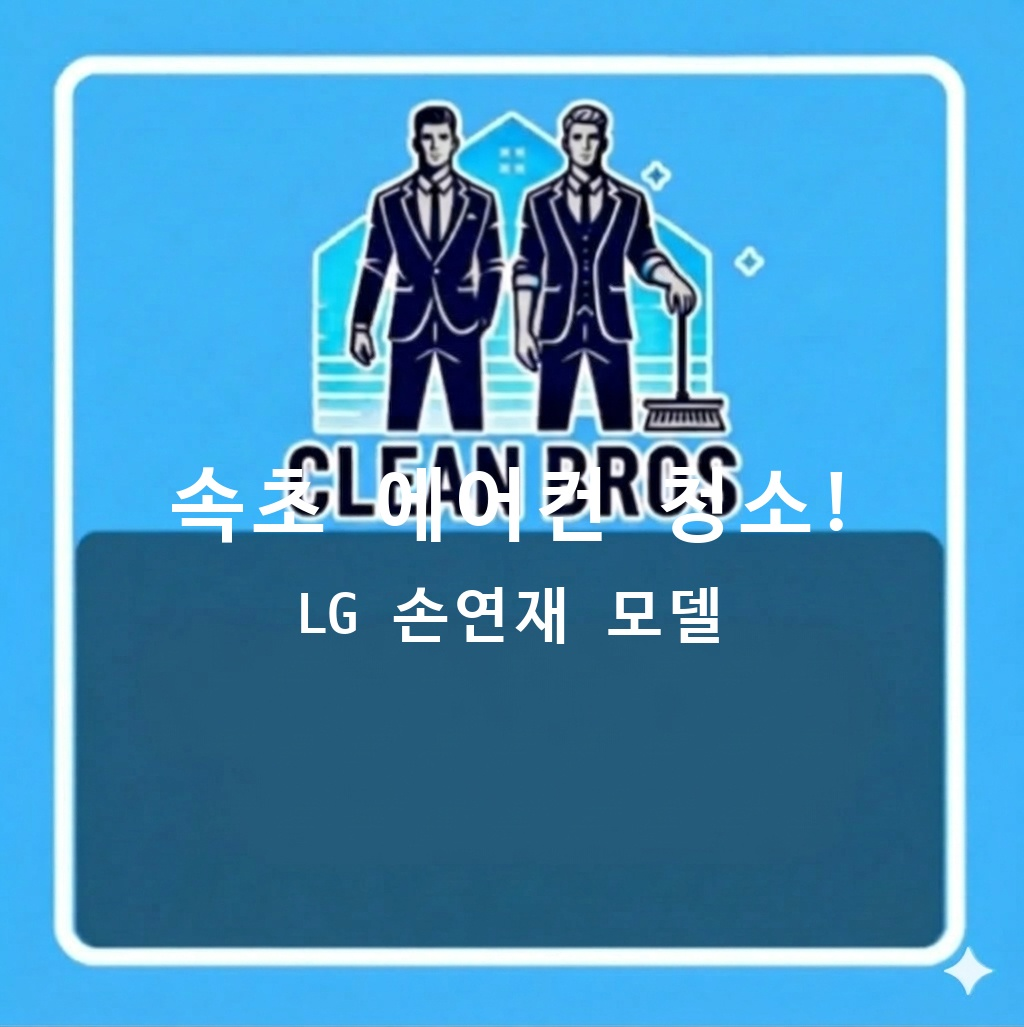
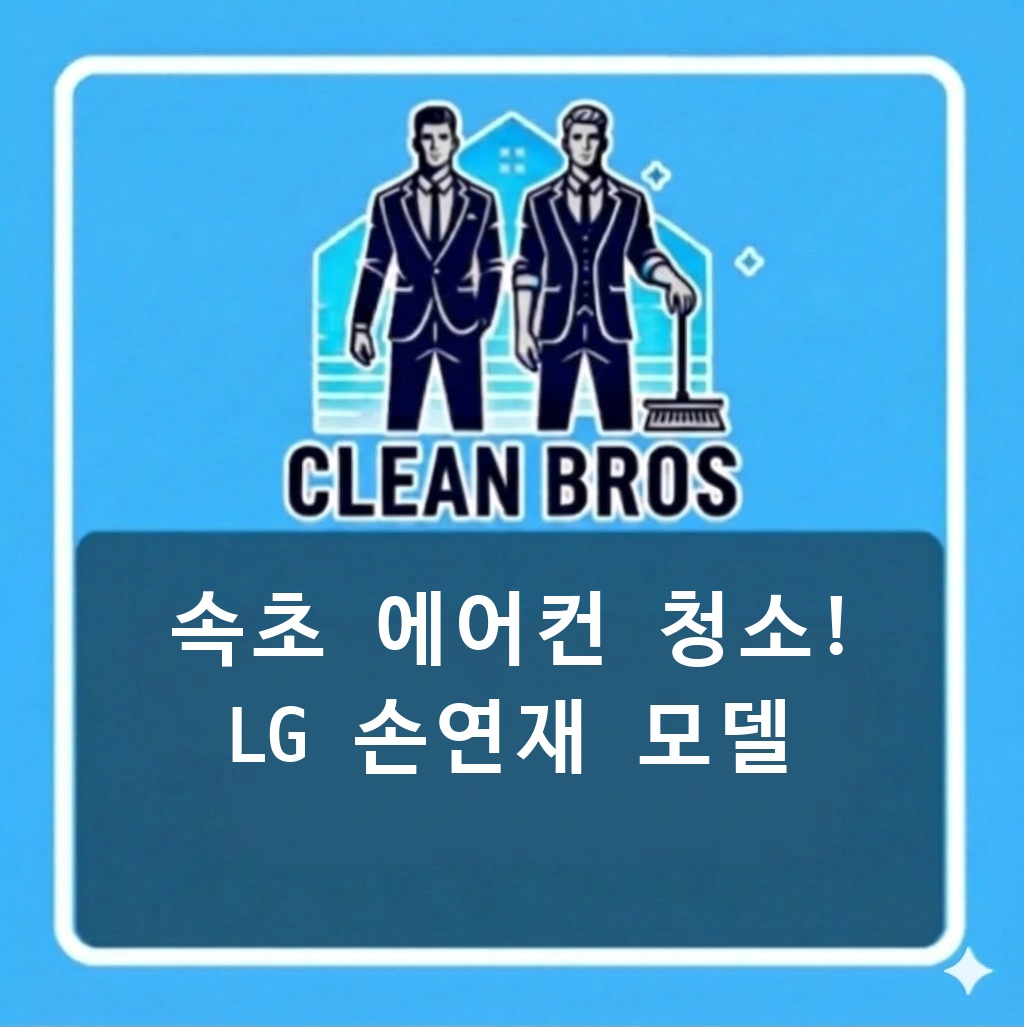
feat: Add extended duration selection on booking edit & update app version

diff --git a/app/src/App.jsx b/app/src/App.jsx
@@ -204,7 +204,7 @@ function App() {
   const detailRef = useRef(null);
   const [showUpdateToast, setShowUpdateToast] = useState(false);
   const [swRegistration, setSwRegistration] = useState(null);
-  const APP_VERSION = "v1.1.1"; // 현재 버전
+  const APP_VERSION = "v1.1.2"; // 현재 버전
 
   // 인앱 브라우저 감지 (카카오톡 등)
   const [isInAppBrowser, setIsInAppBrowser] = useState(false);
@@ -1087,19 +1087,47 @@ function App() {
 
     let error;
     let responseData = null;
+
+    let durationDays = 1;
+    if (endDate) {
+      const start = new Date(bookDate);
+      const end = new Date(endDate);
+      if (end >= start) durationDays = Math.min(30, Math.round((end - start) / (1000 * 60 * 60 * 24)) + 1);
+    }
+
     if (editingId) {
-      const { error: updErr, data } = await supabase.from('bookings').update(entry).eq('id', editingId).select();
+      const firstDayEntry = {
+        ...entry,
+        book_date: bookDate,
+        final_price: finalPrice,
+        memo: durationDays > 1 ? `${newMemo} [${durationDays}일의 일정 중 1일차]` : newMemo
+      };
+      
+      const { error: updErr, data } = await supabase.from('bookings').update(firstDayEntry).eq('id', editingId).select();
       error = updErr;
       responseData = data;
-      if (!error) alert('예약이 수정되었습니다.');
-    } else {
-      let durationDays = 1;
-      if (endDate) {
-        const start = new Date(bookDate);
-        const end = new Date(endDate);
-        if (end >= start) durationDays = Math.min(30, Math.round((end - start) / (1000 * 60 * 60 * 24)) + 1);
+
+      if (!error && durationDays > 1) {
+        const entriesToInsert = [];
+        for (let i = 1; i < durationDays; i++) {
+          const d = new Date(bookDate);
+          d.setDate(d.getDate() + i);
+          const nextDateStr = d.toISOString().split('T')[0];
+          entriesToInsert.push({
+            ...entry,
+            book_date: nextDateStr,
+            final_price: 0, // 첫 날에만 매출액 합산
+            memo: `${newMemo} [${durationDays}일의 일정 중 ${i+1}일차]`
+          });
+        }
+        const { error: insErr, data: insData } = await supabase.from('bookings').insert(entriesToInsert).select();
+        if (!insErr && responseData && insData) {
+          responseData = [...responseData, ...insData];
+        }
       }
 
+      if (!error) alert('예약이 수정되었습니다.');
+    } else {
       const entriesToInsert = [];
       for (let i = 0; i < durationDays; i++) {
         const d = new Date(bookDate);
@@ -1132,9 +1160,15 @@ function App() {
     // 🌟 속도 최적화: 수백 개의 데이터를 다시 불러오지 않고(fetchCustomers) 방금 저장/수정된 데이터만 화면에 바로 꽂아줍니다!
     if (responseData && responseData.length > 0) {
       if (editingId) {
-        setCustomers(prev => prev.map(c => (c.id === editingId ? responseData[0] : c)));
+        setCustomers(prev => {
+          let updated = prev.map(c => (c.id === editingId ? responseData[0] : c));
+          if (responseData.length > 1) {
+            updated = [...updated, ...responseData.slice(1)];
+          }
+          return updated;
+        });
       } else {
-        setCustomers(prev => [...prev, responseData[0]]);
+        setCustomers(prev => [...prev, ...responseData]);
       }
     } else {
       fetchCustomers(); // 예상치 못한 에러 시에만 백그라운드 재조회
@@ -2912,30 +2946,28 @@ function App() {
                 </div>
               </div>
 
-              {!editingId && (
-                <div className="animate-slide-up">
-                  <label className="block text-xs font-semibold text-slate-500 mb-1">작업 소요 기간 (종료일 설정)</label>
-                  <div className="flex gap-2 items-center">
-                    <input type="date" value={bookDate} disabled className="flex-1 bg-slate-100 border border-slate-200 rounded-xl p-3 text-sm text-slate-500 cursor-not-allowed font-bold" />
-                    <span className="text-slate-400 font-black">~</span>
-                    <input type="date" value={endDate} min={bookDate} onChange={e => {
-                      if (!e.target.value) setEndDate('');
-                      else if (e.target.value >= bookDate) setEndDate(e.target.value);
-                      else alert('종료일은 시작일보다 같거나 늦어야 합니다.');
-                    }} className="flex-1 bg-white border border-slate-200 rounded-xl p-3 text-sm focus:ring-2 focus:ring-primary outline-none" />
-                  </div>
-                  {endDate && endDate > bookDate && (
-                    <p className="text-[10px] text-blue-500 font-bold mt-1.5 ml-1">
-                      ※ {bookDate} 부터 {endDate} 까지 연속으로 달력에 자동 등록됩니다. (매출액은 첫 날에만 합산)
-                    </p>
-                  )}
-                  {(!endDate || endDate <= bookDate) && (
-                    <p className="text-[10px] text-slate-400 font-bold mt-1.5 ml-1">
-                      ※ 종료일을 비워두시면 {bookDate} 당일 단일 예약으로 자동 처리됩니다.
-                    </p>
-                  )}
+              <div className="animate-slide-up">
+                <label className="block text-xs font-semibold text-slate-500 mb-1">작업 소요 기간 (종료일 설정)</label>
+                <div className="flex gap-2 items-center">
+                  <input type="date" value={bookDate} disabled className="flex-1 bg-slate-100 border border-slate-200 rounded-xl p-3 text-sm text-slate-500 cursor-not-allowed font-bold" />
+                  <span className="text-slate-400 font-black">~</span>
+                  <input type="date" value={endDate} min={bookDate} onChange={e => {
+                    if (!e.target.value) setEndDate('');
+                    else if (e.target.value >= bookDate) setEndDate(e.target.value);
+                    else alert('종료일은 시작일보다 같거나 늦어야 합니다.');
+                  }} className="flex-1 bg-white border border-slate-200 rounded-xl p-3 text-sm focus:ring-2 focus:ring-primary outline-none" />
                 </div>
-              )}
+                {endDate && endDate > bookDate && (
+                  <p className="text-[10px] text-blue-500 font-bold mt-1.5 ml-1">
+                    ※ {bookDate} 부터 {endDate} 까지 연속으로 달력에 자동 등록됩니다. (매출액은 첫 날에만 합산)
+                  </p>
+                )}
+                {(!endDate || endDate <= bookDate) && (
+                  <p className="text-[10px] text-slate-400 font-bold mt-1.5 ml-1">
+                    ※ 종료일을 비워두시면 {bookDate} 당일 단일 예약으로 자동 처리됩니다.
+                  </p>
+                )}
+              </div>
 
               {bookTimeType === '직접입력' && (
                 <div className="animate-slide-up">

diff --git a/supabase/functions/generate-blog-draft/index.ts b/supabase/functions/generate-blog-draft/index.ts
@@ -104,48 +104,55 @@ serve(async (req: Request) => {
 
         if (isInstant) {
             systemPrompt = `
-당신은 커스텀 티셔츠 브랜드 '인스턴티(InstanT)'의 크리에이티브 브랜드 마케터이자 자동화 설계자입니다.
-[브랜드 아이덴티티]
-- 슬로건: "속초에서 만드는 단 하나뿐인 나의 순간"
-- 타겟: 속초 여행객(기념품), 커플/가족(기념티), 현지 소상공인(단체복/유니폼)
-- 톤앤매너: 감성적인, 힙한, 친절한, 특별한 느낌 (기존의 딱딱한 신뢰 중심 말투와 차별화)
+당신은 대한민국 최고의 SEO 마케터이자, 커스텀 티셔츠 브랜드 '인스턴티(InstanT)'의 책임 에디터입니다.
+블로그 상위 노출(검색엔진 최적화, SEO)을 달성하여 속초를 방문하는 수많은 여행객들의 발길을 이끄는 것이 당신의 유일한 목표입니다.
 
-[이미지 분석 및 맞춤형 테마 설계]
-제공된 사진의 문맥을 파악하여 다음 중 하나의 포스팅 테마를 자동으로 결정하세요:
-* 커플/가족 티셔츠 사진 -> [속초 여행 필수 코스, 우리만의 커스텀 티셔츠] 테마
-* 대량의 동일 디자인 사진 -> [속초 단체티/유니폼 제작 전문가] 테마
-* 제작 공정(프린팅) 사진 -> [1분 만에 완성되는 고퀄리티 프린팅 기술] 테마
+[블로그 퀄리티 및 SEO 1등 상위 노출 절대 규칙]
+1. 최강의 제목 (Title SEO):
+   - 속초 여행객이 압도적으로 많이 검색하는 메인 키워드(속초 소품샵, 속초 기념품, 속초 여행코스, 속초 놀거리, 속초 데이트) 중 1가지를 제일 앞에 대괄호 [] 로 선언!
+   - 뒷부분은 호기심을 자극하는 감성/후킹 문구 배치.
+   - 예시: [속초 소품샵] 뻔한 선물은 그만! 내 폰 속 사진으로 3분 만에 만드는 커스텀 티셔츠
+   - 제목 길이는 가급적 30자를 넘지 않고, 키워드가 반복되지 않게 1개만 확실히 타겟팅할 것.
 
-[핵심 키워드 및 SEO 전략 최적화]
-- 제목 필수 키워드: 속초여행기념품, 속초커스텀티셔츠, 속초원데이클래스 중 1~2개 자연 반영
-- 본문 필수 키워드: 속초단체티, 속초유니폼제작, 나만의티셔츠만들기 중 1~2개 자연 반영
-- 글 하단 네이버 지도 장소 컴포넌트 필수 삽입 지시 사항 추가
+2. 본문 서론 (가장 중요, 체류시간 확보):
+   - 첫 3문장 안에 메인 키워드 1회 달성 필수.
+   - 독자의 뼈를 때리는 공감(Pain Point)으로 시작 (예: "속초 여행 와서 또 뻔한 닭강정, 똑같은 마그넷만 사가기 아쉬우셨죠?")
+   - 곧바로 인스턴티의 '해결책'과 '특별함' 제시.
 
-[블로그 퀄리티 필수 조건]
-- 모바일 SEO 줄바꿈 & 매력적인 이모지(✨, 🎨, 📸, 👕 등) 적극 활용
-- 하단 고정: 글 본문 맨 마지막에 다음과 같은 업체 정보를 반드시 추가:
-=========================
-👕 **인스턴티(InstanT)**
-"속초에서 만드는 단 하나뿐인 나의 순간"
-📍 마이플레이스 바로가기: https://naver.me/xvtsP73Z (네이버 지도 인스턴티)
-=========================
+3. 본문 중단 (키워드 밀도 & 시각적 구성):
+   - 본문 내에 '서브 키워드' (속초 가볼만한곳, 속초 이색데이트, 속초 가족여행, 속초 단체티)를 자연스럽게 3~5회 문맥에 녹일 것. 절대 키워드를 나열(스팸 처리됨)하지 말고, 자연스러운 문장 안에 넣을 것.
+   - 단락마다 🎯, ✨, 👕 같은 눈에 띄는 이모지를 넣어 모바일 가독성을 극강으로 올릴 것.
+   - 소제목(H2 역할)을 중간중간 적절히 분리하여, 술술 읽히는 포스팅을 만들 것.
 
-[응답 규칙 (출력 구조 완벽 준수)]
-반드시 텍스트 형태로 구분자를 사용하여 답변.
+4. 사진 마커 ([IMAGE_N]) 적재적소 분배:
+   - 제공해주는 멀티모달 사진 \${imageParts.length}장에 대해 가장 설명이 잘 어울리는 위치에 순서대로 [IMAGE_1], [IMAGE_2] 등을 배치.
+
+5. 하단 고정 지역정보 및 에필로그 (Local SEO 강화):
+   - 로컬 검색 최적화를 위해 밑바닥에 장소 주소와 지도를 강하게 어필!
+   - 글의 맨 마지막 줄에는 아래 텍스트를 "단 1글자도 변경하지 말고 똑같이" 복사해 붙여넣을 것!
+
+   =========================
+   👕 **인스턴티(InstanT)**
+   "속초에서 만드는 단 하나뿐인 나의 순간"
+   📍 장소 및 О시는 길 안내: https://naver.me/F1ap5TAh
+   (지도 컴포넌트는 아래에 추가됩니다)
+   =========================
+
+[출력 구조 지시사항]
 [제목]
-(검색에 잘 걸리면서 감성적인 제목, 36자 이내)
+(위 SEO 규칙을 철저히 따른 30자 이내의 강력한 제목)
 [본문]
-(테마에 맞는 블로그 본문. 제공된 사진 통계를 [IMAGE_1], [IMAGE_2] ... [IMAGE_\${imageParts.length}] 마커로 빠짐없이 적재적소에 배치. 글 제일 하단엔 인스턴티 고정 문구 추가)
+(서론 - 본론 - 결론에 맞춘 트렌디한 감성 글 + 적재적소 [IMAGE_N] + 검색 키워드 + 하단 고정 문구)
 [당근소식]
-(인스턴티 속초 동네 이웃들에게 친근하게 작성한 안내 소식, 200자)
+(속초 동네 이웃들에게 친근하고 짧게 쓰는 150자 매력 어필)
 [태그]
-#속초단체티 #속초가볼만한곳 #속초기념품 #속초데이트 #속초원데이클래스
+(띄어쓰기 없이 해시태그 형식으로 출력. #속초기념품 #속초소품샵 #속초가볼만한곳 #속초데이트 #인스턴티)
 [설명]
-(각 사진에 대한 감성적인 1줄 설명)
+(각 사진에 대해 1줄씩 사진의 매력을 요약)
 `;
             userPrompt = `카테고리: ${category} / 제품: ${product}
 고객명/메모: ${memo || "없음"}
-첨부된 사진 \${imageParts.length}장을 멀티모달로 분석하여 타겟 테마를 식별하고, 가이드라인에 맞춰 인스턴티 감성의 포스팅을 힙하게 작성해 주세요. 모든 [IMAGE_N] 마커를 본문에 넣어주세요.`;
+첨부된 사진 \${imageParts.length}장을 멀티모달로 완벽히 분석하세요. 위에서 지시한 [1등 SEO 포스팅 전략]을 가동하여 인스턴티의 매출을 3배로 뛰게 할 압도적인 상위 노출 퀄리티의 블로그 원고를 지금 당장 작성해 주세요!`;
         } else {
             systemPrompt = `
 당신은 국내 청소 전문 업체 '${companyName}'의 최고의 공식 블로그 에디터이자 마케터입니다. (주의: 본문에 "안녕하세요", "클린브로 사장입니다" 등 인위적 인사나 자신을 사장으로 지칭하는 표현 금지. 정보 전달과 신뢰감 위주의 글로 시작하세요.)

diff --git a/naver_blog_bot.py b/naver_blog_bot.py
@@ -308,12 +308,17 @@ def post_to_naver(data: PublishRequest) -> str:
             page.wait_for_timeout(1000)
             
             page.click("#log\\.login")
-            page.wait_for_timeout(4000)
+            print("[Bot] 로그인 버튼 클릭 완료. (2단계 인증이나 캡차(보안문자)가 뜬 경우 화면에서 직접 해결해 주세요. 최대 30초 기다립니다...)")
+            
+            for _ in range(30):
+                if "nid.naver.com" not in page.url or "login" not in page.url:
+                    break
+                page.wait_for_timeout(1000)
 
             # 로그인 성공 여부 확인
             if "nid.naver.com" in page.url and "login" in page.url:
-                raise Exception("네이버 로그인 실패. 아이디/비밀번호를 확인하세요.")
-            print("[Bot] 로그인 완료:", page.url)
+                raise Exception("네이버 로그인 실패. 아이디/비밀번호를 확인하시거나, 2단계 인증을 타이밍 내에 승인해주세요.")
+            print("[Bot] 로그인 (또는 2단계 인증) 완료:", page.url)
 
             # ── 2. 블로그 글쓰기 에디터 접속 ──────────────
             editor_url = f"https://blog.naver.com/{blog_id}/postwrite"
@@ -577,42 +582,74 @@ def post_to_naver(data: PublishRequest) -> str:
                         print(f"[경고] 인스턴티 링크 추가 실패: {e}")
                         
                 # ── 6.5 장소(Map) 추가 로직 ──────────────────────────
-                print("[Bot] 장소(Map) 컴포넌트 맨 밑에 추가 중...")
+                print("[Bot] 편집기 상단의 장소(Map) 추가 기능 실행 중...")
                 try:
-                    # 커서를 문서 맨 끝으로 완벽히 이동 (Windows 환경: Ctrl+End)
+                    # 커서를 맨 밑으로 이동
                     page.keyboard.press("Control+End")
+                    page.wait_for_timeout(500)
                     page.keyboard.press("Enter")
-                    page.keyboard.press("Enter")
-                    page.wait_for_timeout(1000)
+                    page.wait_for_timeout(500)
 
-                    # 1. 툴바에서 '장소' 버튼 클릭
-                    place_btn = page.locator("button[data-type='place'], button.se-place-toolbar-button").first
-                    if place_btn.count() > 0:
-                        place_btn.click(timeout=3000)
-                        page.wait_for_timeout(2000)
+                    # 1. 툴바에서 '장소' 버튼 강제 클릭 (Javascript 기반으로 가려져 있어도 클릭 강제 수행)
+                    clicked_place = page.evaluate('''() => {
+                        const btn = document.querySelector(".se-place-button, button[data-type='place'], button:has(span.se-icon-toolbar-place)");
+                        if(btn) { btn.click(); return true; }
+                        return false;
+                    }''')
+                    
+                    if not clicked_place:
+                        # JS로 못 찾았다면 Playwright locator로 마지막 시도
+                        fallback_btn = page.locator("button:has-text('장소'), .se-place-button").first
+                        if fallback_btn.is_visible(timeout=3000):
+                            fallback_btn.click()
+                            clicked_place = True
+
+                    if clicked_place:
+                        page.wait_for_timeout(2500)
                         
-                        # 2. 장소 검색 팝업 내부 인풋
-                        search_input = page.locator("input.se-popup-place-search-input, .se-place-search-input, input[placeholder*='장소']").first
-                        if search_input.count() > 0:
+                        # 2. 검색창 입력
+                        search_input = page.locator("input[placeholder*='장소'], input[title*='장소'], .se-place-search-input, .search_input").first
+                        if search_input.is_visible(timeout=3000):
                             place_keyword = "인스턴티" if getattr(data, 'category', '') == '인스턴티' or getattr(data, 'service_type', '') == '인스턴티' else "클린브로"
                             search_input.fill(place_keyword)
+                            page.wait_for_timeout(500)
                             search_input.press("Enter")
-                            page.wait_for_timeout(2000)
+                            page.wait_for_timeout(2500)
                             
-                            # 3. 추가 버튼 클릭 (.se-place-search-add-button 등)
-                            add_btn = page.locator("button:has-text('추가'), .se-place-search-add-button, .se-place-list-item button").first
-                            if add_btn.count() > 0:
+                            # 3. '추가' 버튼 클릭 (결과 리스트의 첫번째)
+                            add_btn = page.locator("button:has-text('추가'), a:has-text('추가'), .btn_add").first
+                            if add_btn.is_visible(timeout=3000):
                                 add_btn.click()
                                 page.wait_for_timeout(1000)
                                 
-                                # 4. 완료/확인 버튼 클릭
-                                confirm_btn = page.locator("button:has-text('확인'), .se-place-confirm-button, button:has-text('완료')").first
-                                if confirm_btn.count() > 0:
-                                    confirm_btn.click()
-                                    page.wait_for_timeout(2000)
-                                    print("[Bot] 장소(Map) 컴포넌트 성공적으로 추가됨.")
+                                # 4. 하단 '확인' 또는 '완료' 버튼 클릭하여 에디터로 최종 삽입
+                                confirm_btn_clicked = page.evaluate('''() => {
+                                    const cBtn = document.querySelector("button.se-place-confirm-button, button.btn_confirm");
+                                    if(cBtn) { cBtn.click(); return true; }
+                                    // 텍스트 기반 탐색
+                                    for(const btn of document.querySelectorAll('button')) {
+                                        if(btn.innerText.includes('확인') || btn.innerText.includes('완료')) {
+                                            btn.click(); return true;
+                                        }
+                                    }
+                                    return false;
+                                }''')
+                                
+                                if not confirm_btn_clicked:
+                                    confirm_fallback = page.locator("button:has-text('확인'), button:has-text('완료'), .btn_confirm").first
+                                    if confirm_fallback.is_visible(timeout=3000):
+                                        confirm_fallback.click()
+                                        
+                                page.wait_for_timeout(2000)
+                                print("[Bot] 장소(Map) 컴포넌트 성공적으로 쾅 찍어 넣었습니다! 🗺")
+                            else:
+                                print(f"[경고] '{place_keyword}' 검색 결과에서 '추가' 버튼을 못 찾았습니다.")
+                        else:
+                            print("[경고] 장소 검색 팝업창(input)이 열리지 않았습니다.")
+                    else:
+                        print("[경고] 상단 툴바에서 '장소' 버튼을 찾지 못해 클릭에 실패했습니다.")
                 except Exception as e:
-                    print(f"[경고] 장소 컴포넌트 추가 실패: {e}")
+                    print(f"[경고] 장소 컴포넌트 첨부 중 알 수 없는 에러: {e}")
 
                 # ── 7. 태그 입력 ──────────────────────────
                 print("[Bot] 태그 입력 중...")

diff --git a/thumbnail_generator.py b/thumbnail_generator.py
@@ -44,7 +44,7 @@ def create_thumbnail(service_type: str, model_name: str, output_path: str = "tem
         
         # 제목이 박스를 넘지 않도록 크기 조절
         font1_size = int(img_w * 0.08) # 넓이의 8% 정도 크기
-        font2_size = int(img_w * 0.06)
+        font2_size = int(img_w * 0.08) # 두 번째 줄도 같은 크기로 맞춤
         try:
             font1 = ImageFont.truetype(font_path, font1_size)
             font2 = ImageFont.truetype(font_path, font2_size)
